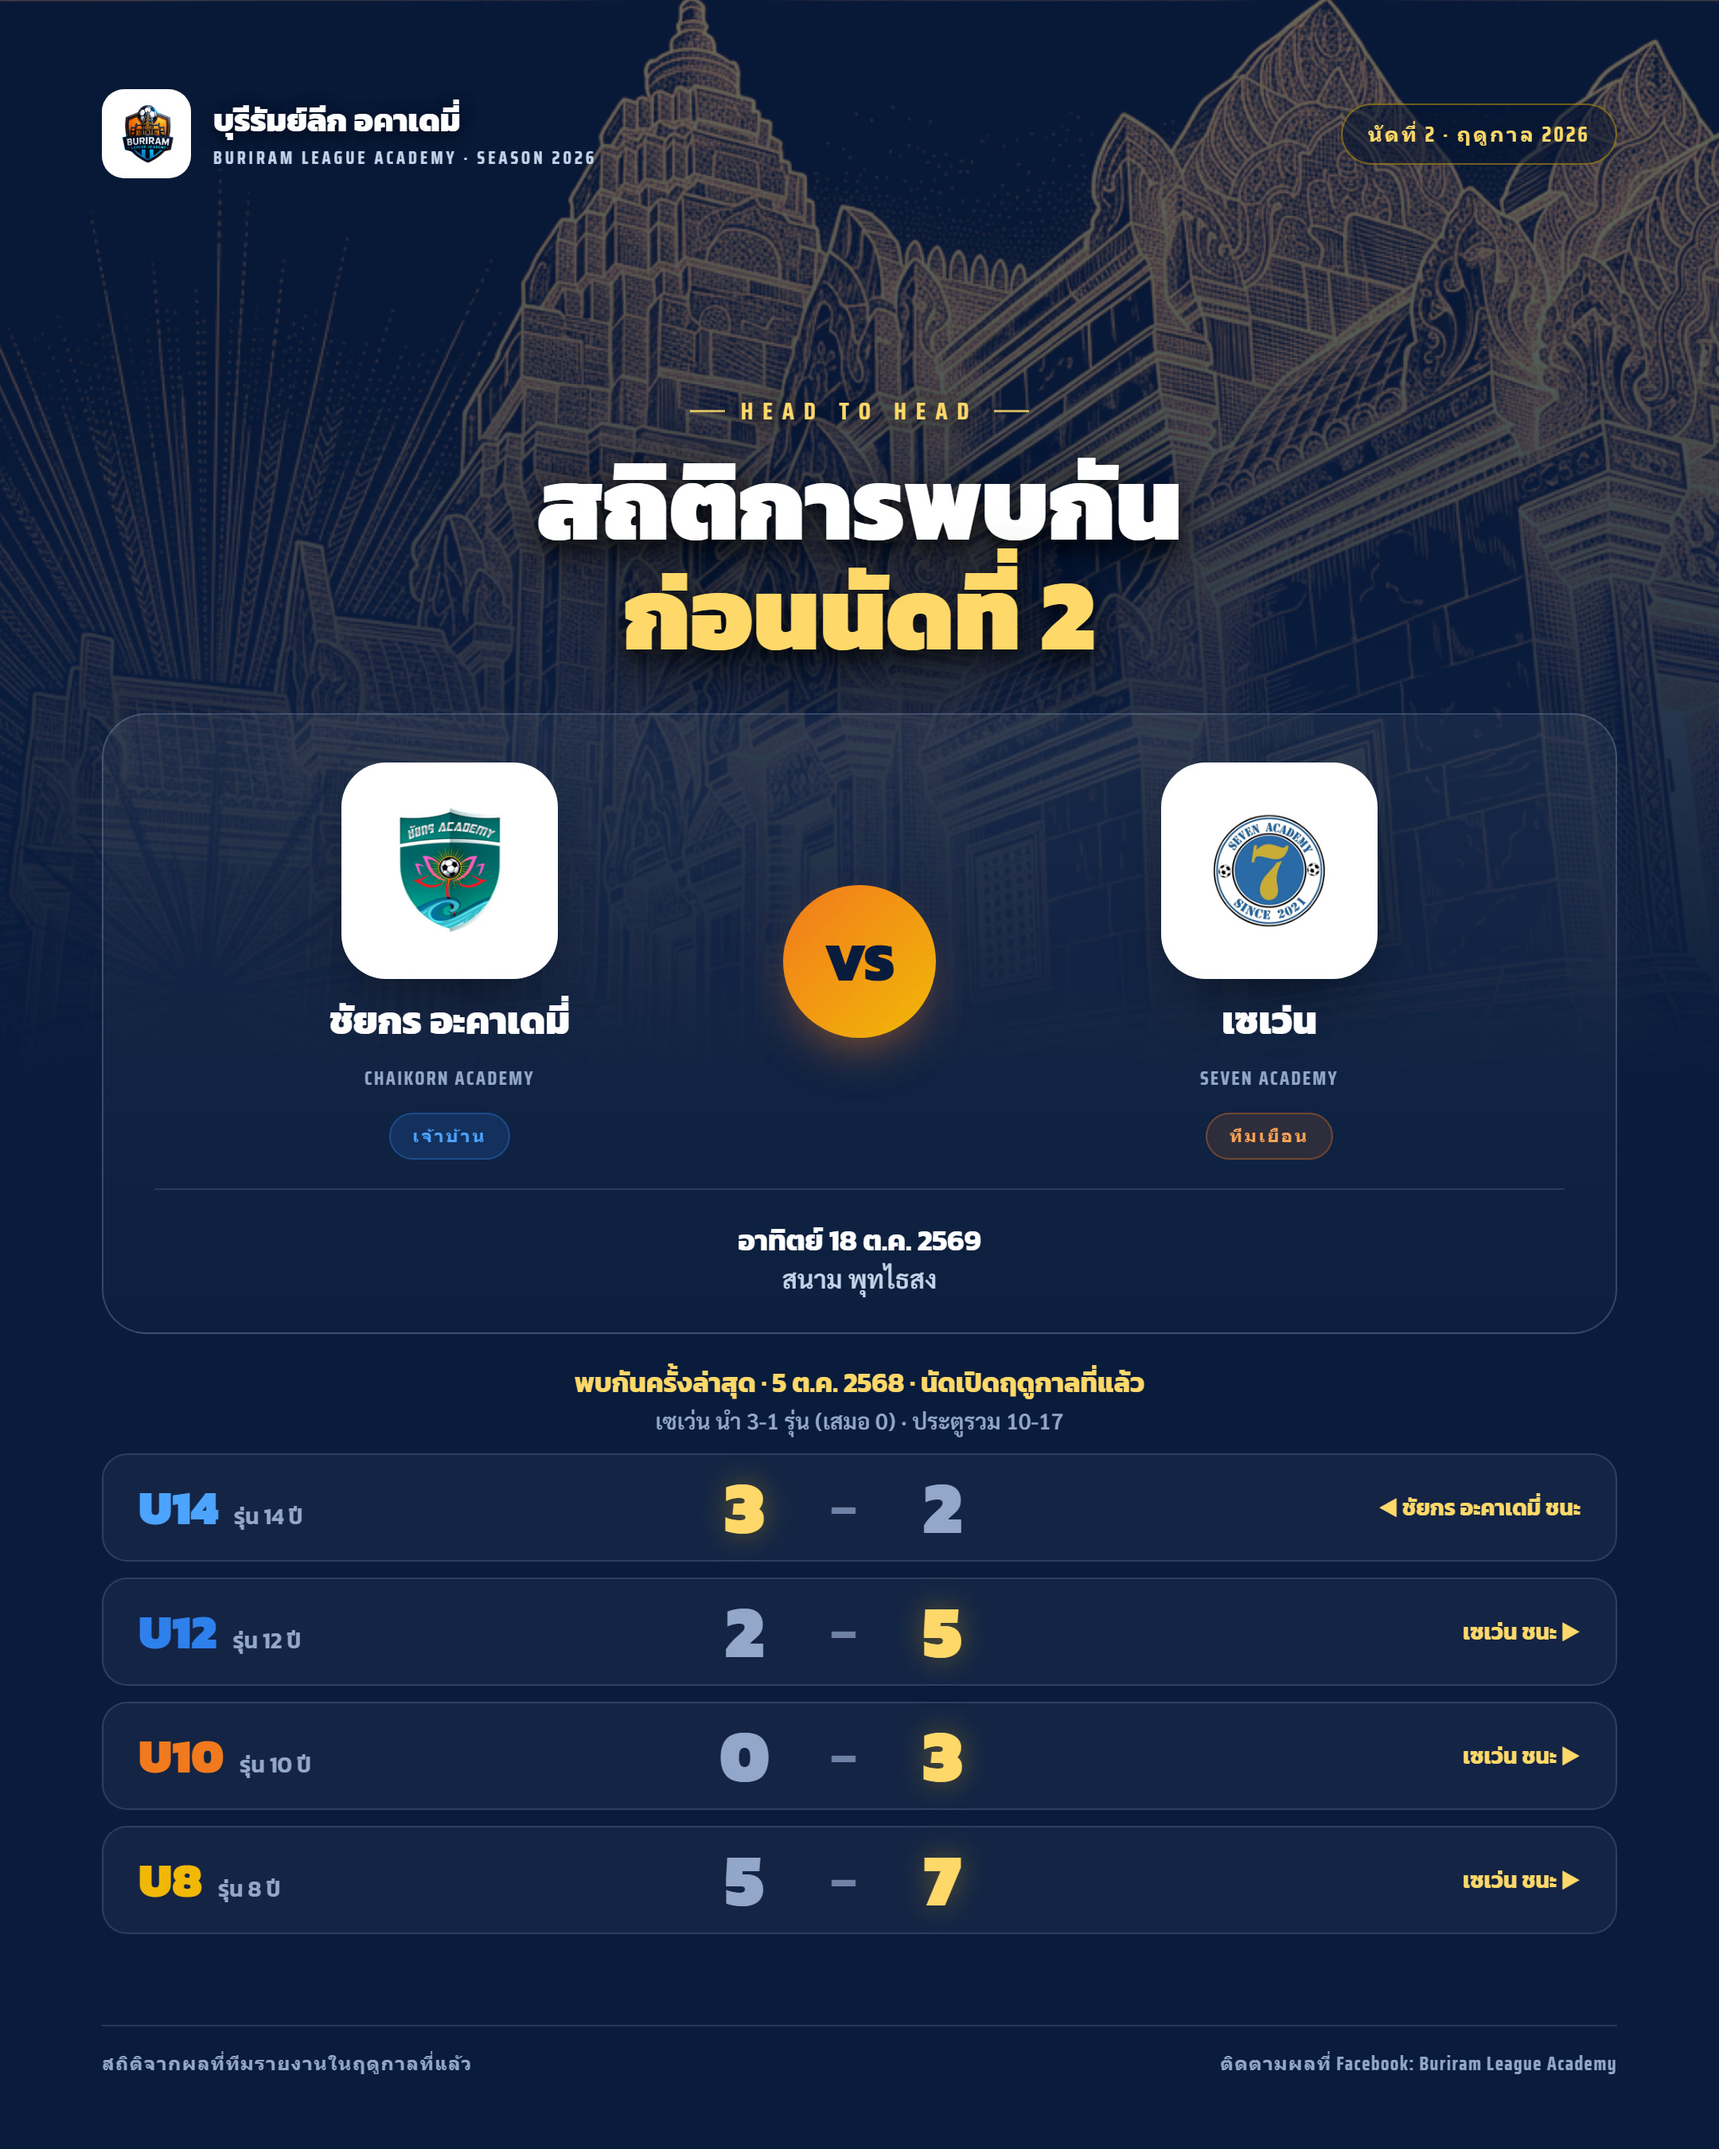
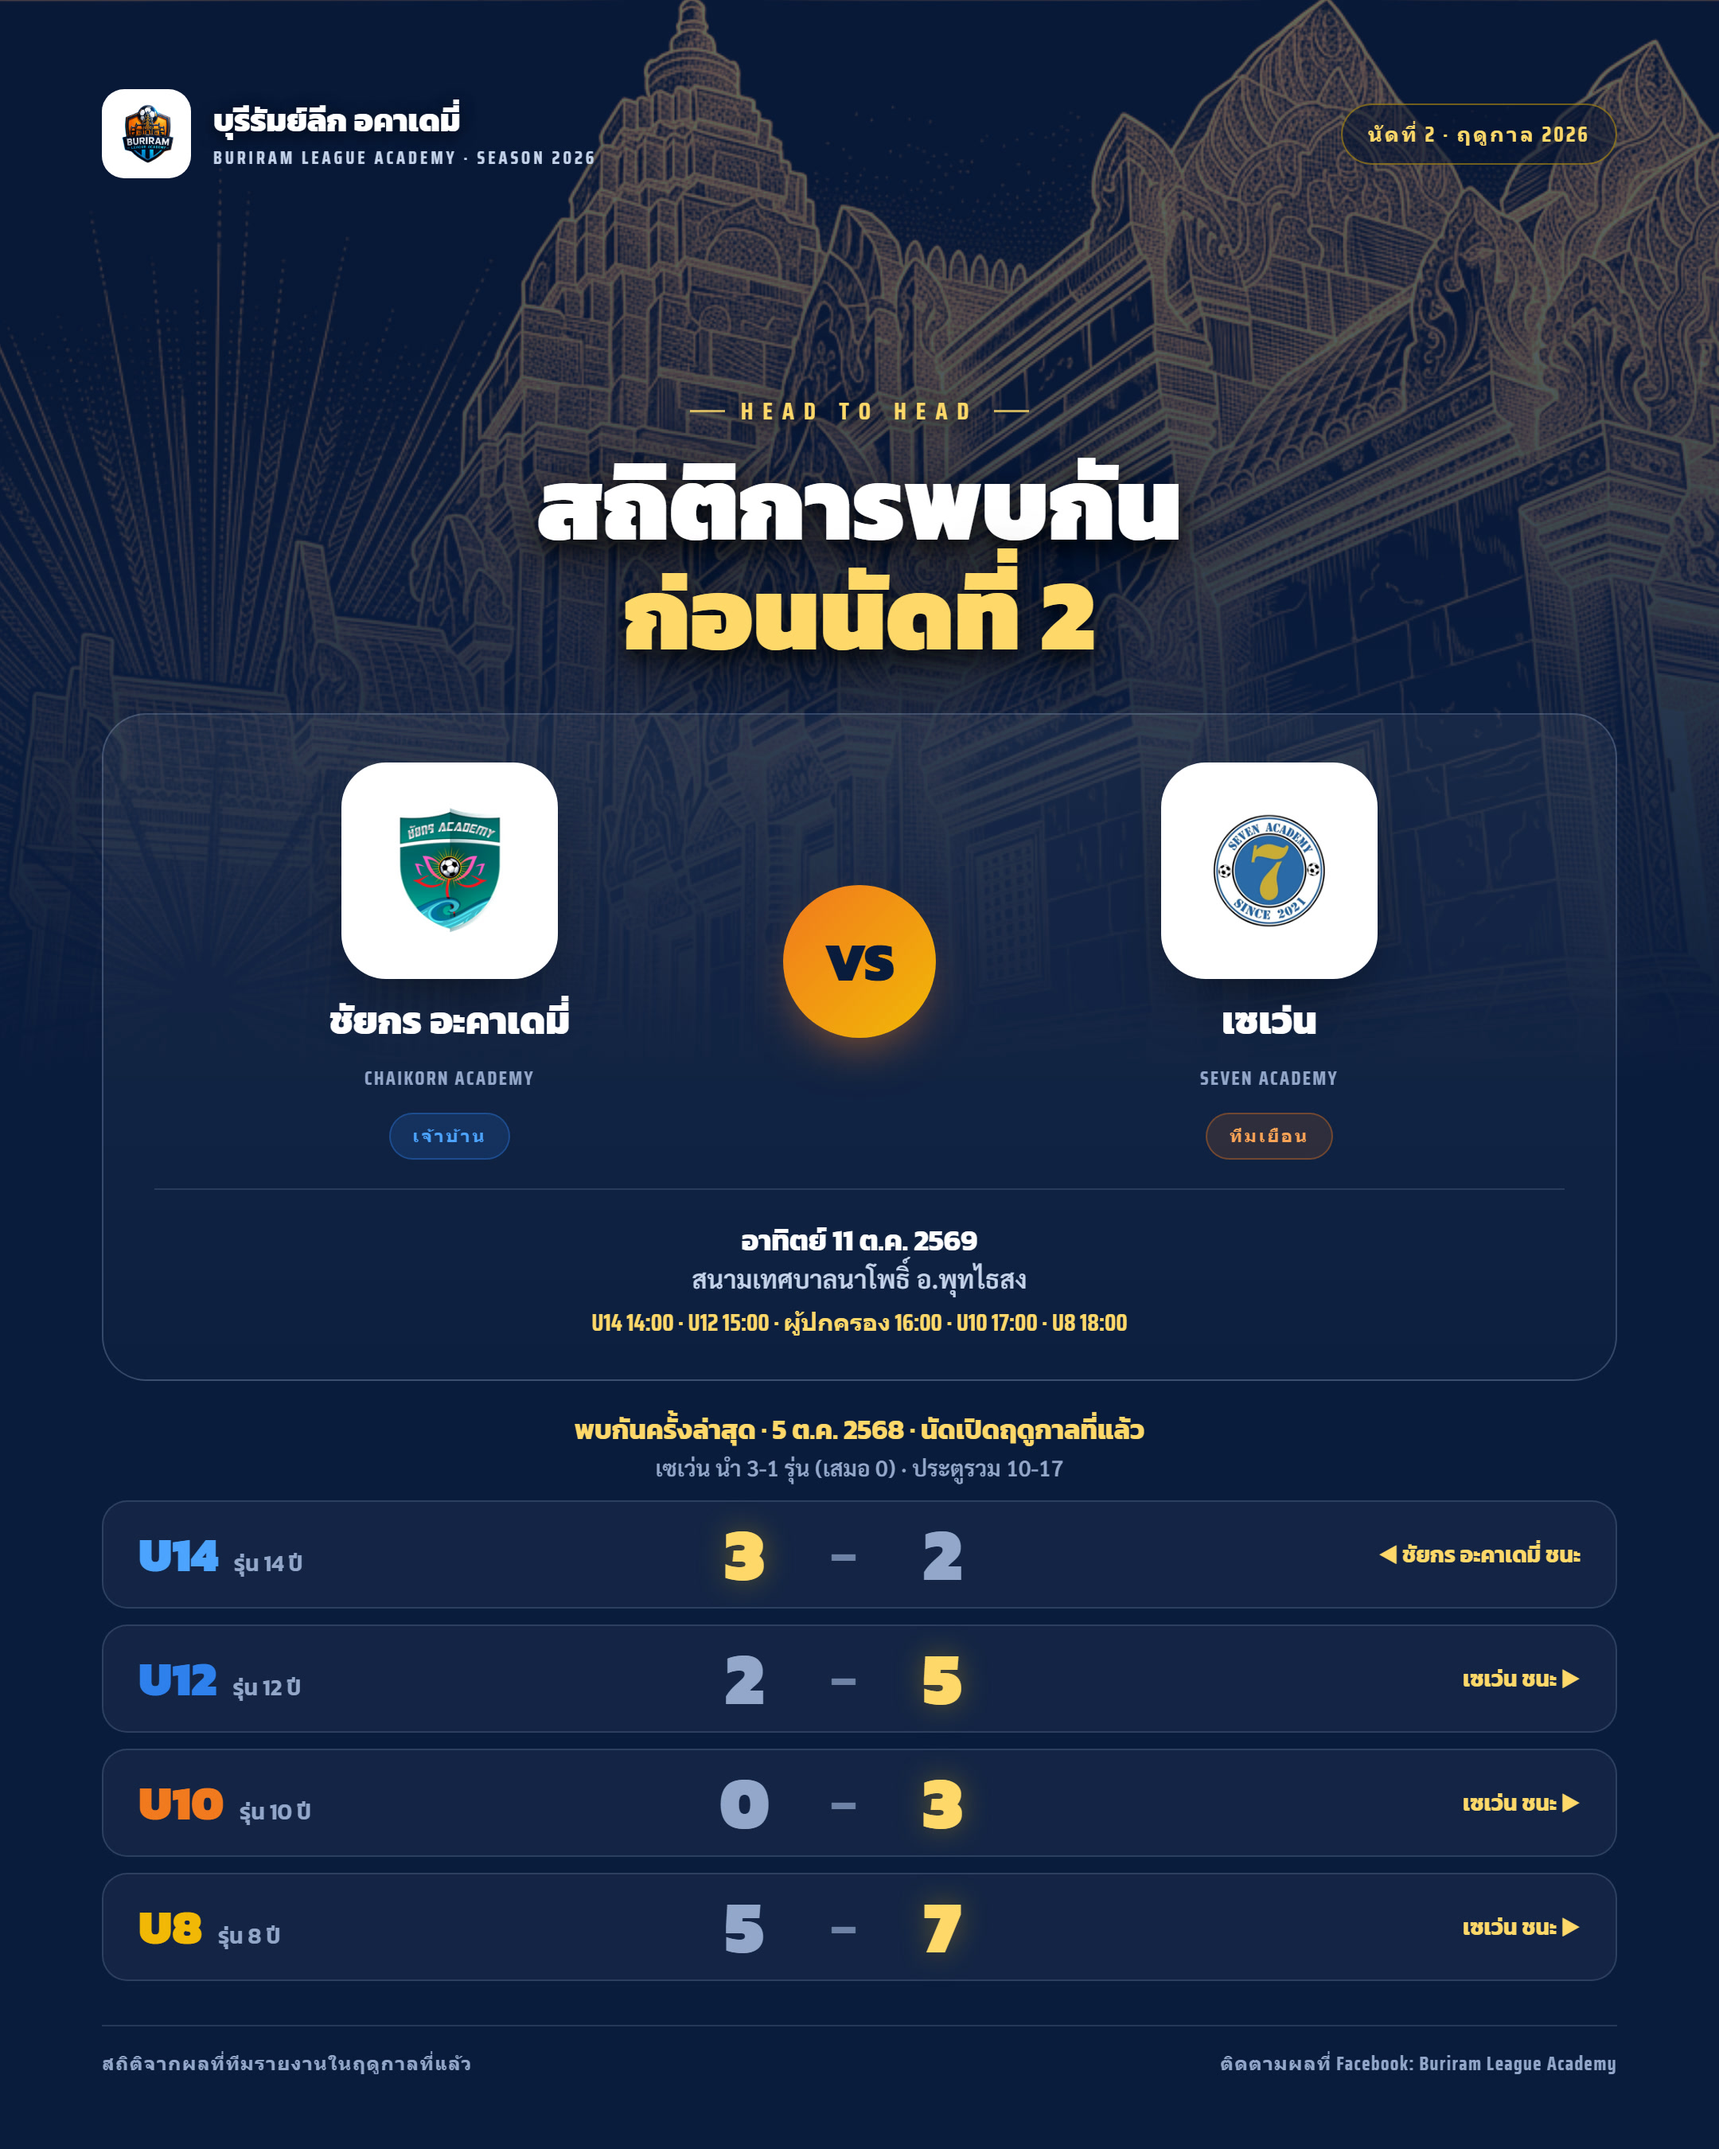
round 2: per-match date/times for Chaikorn-Seven (11 Oct) and Bes-Kongfang (13 Oct); regenerate posters

Changed region(s): [[0.3412, 0.56, 0.6824, 0.9333], [0.062, 0.6844, 0.1861, 0.9022], [0.8065, 0.6844, 0.9306, 0.9022]]

diff --git a/assets/js/data.js b/assets/js/data.js
@@ -95,11 +95,11 @@ window.BLA = {
       { home:"เซเว่น",           away:"ลำปลายมาศ",         venue:"เซเว่น อะคาเดมี่ เมืองบุรีรัมย์", times:{U14:"10:00",U12:"11:00",parent:"ระหว่างกลาง",U10:"13:00",U8:"14:00"} }
     ]},
     { round:2, date:"อาทิตย์ 18 ต.ค. 2569", matches:[
-      { home:"เบส",              away:"กองฟาง ยูไนเต็ด",   venue:"คูเมือง" },
+      { home:"เบส",              away:"กองฟาง ยูไนเต็ด",   date:"อังคาร 13 ต.ค. 2569", venue:"สนามพงศ์พันธุ์อารีน่า อ.คูเมือง", times:{U8:"10:00",U10:"11:00",parent:"12:00 (รุ่นผู้ปกครอง)",U12:"13:00",U14:"14:00"} },
       { home:"เกรียรัมย์",        away:"อีเลฟเว่น อะคาเดมี่", venue:"เมืองบุรีรัมย์ (สามแวง)" },
       { home:"ยูจิน x เอแมน",     away:"โซล",               venue:"นางรอง" },
       { home:"ลำปลายมาศ",        away:"แสงเพชร",           venue:"ลำปลายมาศ" },
-      { home:"ชัยกร อะคาเดมี่",    away:"เซเว่น",            venue:"พุทไธสง" },
+      { home:"ชัยกร อะคาเดมี่",    away:"เซเว่น",            date:"อาทิตย์ 11 ต.ค. 2569", venue:"สนามเทศบาลนาโพธิ์ อ.พุทไธสง", times:{U14:"14:00",U12:"15:00",parent:"16:00 (รุ่นผู้ปกครอง)",U10:"17:00",U8:"18:00"} },
       { home:"ราชสีมา อะคาเดมี่",  away:"บัวหลวง อะคาเดมี่",   venue:"ลำทะเมนชัย · นครราชสีมา" }
     ]},
     { round:3, date:"อาทิตย์ 1 พ.ย. 2569", matches:[

diff --git a/poster-template/make-summary2.js b/poster-template/make-summary2.js
@@ -25,11 +25,11 @@ r.matches = r.matches.filter(m => !isKf(m)).concat(r.matches.filter(isKf));
 data.matches = r.matches.map(m => ({ home: slugOf(m.home), away: slugOf(m.away) }));
 data.summary = {
   matchday: `Matchday · รอบที่ ${N} · ครบ ${r.matches.length} คู่`,
-  dateVenue: `${dateTh} · ปราสาทหินพนมรุ้ง · บุรีรัมย์`,
-  captions: r.matches.map(m => `สนาม ${m.venue} · เจ้าบ้าน ${data.teams[slugOf(m.home)].th}`),
+  dateVenue: `${dateTh} (ยกเว้น 2 คู่ตามที่ระบุ) · บุรีรัมย์`,
+  captions: r.matches.map(m => `${/^สนาม/.test(m.venue) ? m.venue : 'สนาม ' + m.venue}${m.date ? ' · ' + m.date : ''} · เจ้าบ้าน ${data.teams[slugOf(m.home)].th}`),
   agesLabel: 'เวลาแข่งขันมาตรฐานตามรุ่นอายุ:',
   ages: base.summary.ages,
-  note: '* เวลาแข่งตามมาตรฐานลีก — สนามที่ปรับเวลา ทีมเจ้าบ้านจะแจ้งเพิ่มเติม · รุ่นผู้ปกครองคั่นระหว่างโปรแกรม'
+  note: '* คู่ที่ระบุวันเฉพาะ (ชัยกร–เซเว่น อาทิตย์ 11 ต.ค. · เบส–กองฟาง อังคาร 13 ต.ค.) มีตารางเวลาเฉพาะ ดูโปสเตอร์ของคู่นั้น · คู่อื่นใช้เวลามาตรฐาน ทีมเจ้าบ้านจะแจ้งเพิ่มเติมหากปรับ'
 };
 const html = require('./summary-part.js')(data, esc);
 const hp = path.join(DIR, 'summary2.html');

diff --git a/poster-template/make-h2h.js b/poster-template/make-h2h.js
@@ -41,6 +41,7 @@ function teamBlock(slug, pill, pillStyle) {
 }
 
 function html(m, sched) {
+  const timesLine = sched.times ? '<div style="margin-top:6px;font-family:Saira Condensed;font-weight:700;font-size:15px;color:#FFD86A">' + Object.entries(sched.times).sort((x, y) => x[1].localeCompare(y[1])).map(([k, v]) => (k === 'parent' ? 'ผู้ปกครอง' : k) + ' ' + String(v).slice(0, 5)).join(' · ') + '</div>' : '';
   const flip = m.first !== m.home;                       // scores are stored first-team-first
   let hw = 0, aw = 0, dr = 0, hg = 0, ag = 0;
   const rows = AGES.map(a => {
@@ -109,7 +110,7 @@ html,body{margin:0;background:#0A1B3D}
     <div class="vs"><span>VS</span></div>
     ${teamBlock(m.away, 'ทีมเยือน', 'color:#FFA457;background:rgba(242,121,30,.14);border:1px solid rgba(242,121,30,.35)')}
     </div><div class="rule"></div>
-    <div class="v"><b>${esc(round.date)}</b>สนาม ${esc(sched.venue)}</div></div>
+    <div class="v"><b>${esc(sched.date || round.date)}</b>${/^สนาม/.test(sched.venue) ? '' : 'สนาม '}${esc(sched.venue)}${timesLine}</div></div>
   <div class="sub">พบกันครั้งล่าสุด · ${esc(m.when)}<small>${lead} รุ่น (เสมอ ${dr}) · ประตูรวม ${hg}-${ag}</small></div>
   <div class="rows">${rows}</div>
   <div class="foot"><div class="fr"><span>สถิติจากผลที่ทีมรายงานในฤดูกาลที่แล้ว</span><span>ติดตามผลที่ Facebook: Buriram League Academy</span></div></div>

diff --git a/assets/js/main.js b/assets/js/main.js
@@ -150,6 +150,7 @@
           '<div class="side home"><span class="m-logo"' + bgLogo(m.home) + ' aria-hidden="true"></span><span class="m-name">' + esc(m.home) + "</span></div>" +
           '<span class="vs">พบ</span>' +
           '<div class="side away"><span class="m-logo"' + bgLogo(m.away) + ' aria-hidden="true"></span><span class="m-name">' + esc(m.away) + "</span></div>" +
+          (m.date ? '<div class="m-venue"><b>' + esc(m.date) + "</b></div>" : "") +
           (m.venue ? '<div class="m-venue">' + esc(m.venue) + "</div>" : "") +
           times +
           "</div>";
